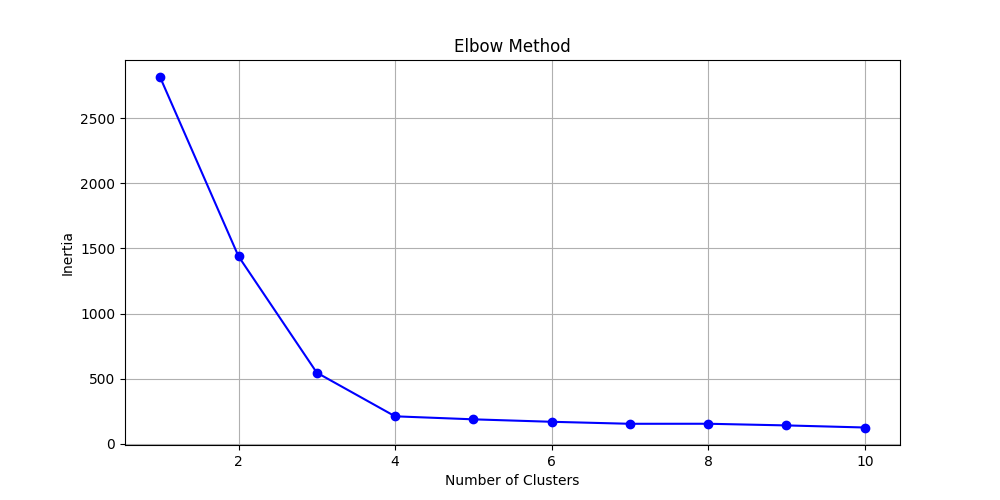
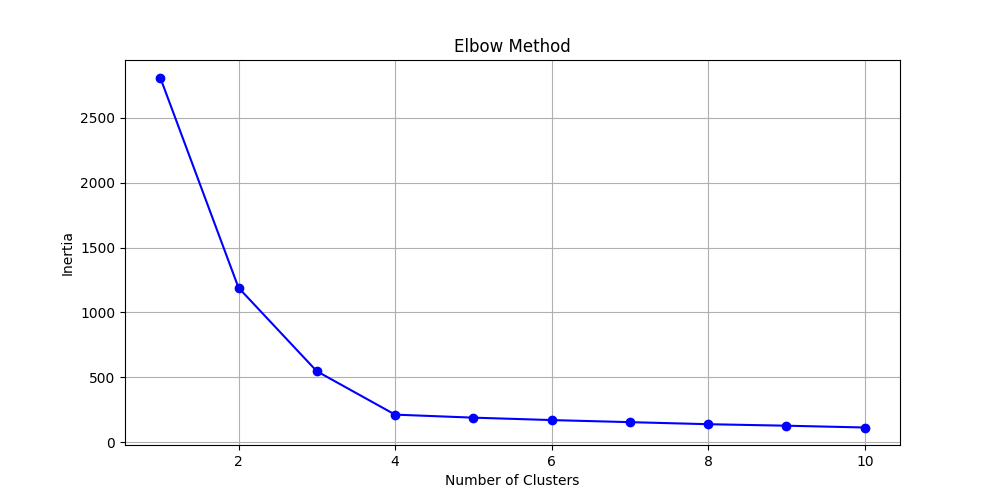
Add clustering prediction outputs

diff --git a/docs/5-ml-fundamentals/5.4-unsupervised-learning/generate_visualizations.py b/docs/5-ml-fundamentals/5.4-unsupervised-learning/generate_visualizations.py
@@ -197,7 +197,7 @@ def generate_clustering_visualizations():
     X, y = make_blobs(n_samples=300, centers=4, cluster_std=0.60, random_state=0)
 
     # K-Means
-    kmeans = KMeans(n_clusters=4, random_state=42)
+    kmeans = KMeans(n_clusters=4, n_init=10, random_state=42)
     kmeans.fit(X)
     y_kmeans = kmeans.predict(X)
 
@@ -296,7 +296,7 @@ def generate_clustering_visualizations():
     # Elbow method
     inertias = []
     for k in range(1, 11):
-        kmeans = KMeans(n_clusters=k, random_state=42)
+        kmeans = KMeans(n_clusters=k, n_init=10, random_state=42)
         kmeans.fit(X)
         inertias.append(kmeans.inertia_)
 

diff --git a/docs/5-ml-fundamentals/5.4-unsupervised-learning/clustering.md b/docs/5-ml-fundamentals/5.4-unsupervised-learning/clustering.md
@@ -55,7 +55,7 @@ from sklearn.datasets import make_blobs
 X, y = make_blobs(n_samples=300, centers=4, cluster_std=0.60, random_state=0)
 
 # Apply K-Means
-kmeans = KMeans(n_clusters=4, random_state=42)
+kmeans = KMeans(n_clusters=4, n_init=10, random_state=42)
 kmeans.fit(X)
 y_kmeans = kmeans.predict(X)
 
@@ -111,6 +111,18 @@ plt.close()
 <img src="assets/kmeans_example.png" alt="Side-by-side scatter plots of original synthetic groups and K-Means cluster assignments with centroid markers" />
 <figcaption>Figure 1: K-Means works well on compact, blob-shaped clusters and marks each learned centroid with a red X.</figcaption>
 </figure>
+
+Expected prediction output:
+
+```text
+First 10 labels: [0 2 1 2 0 0 3 1 2 2]
+Centroids:
+[[ 1.98  0.87]
+ [ 0.95  4.42]
+ [-1.37  7.75]
+ [-1.58  2.83]]
+Inertia: 212.01
+```
 
 ### 2. Hierarchical Clustering
 
@@ -189,6 +201,14 @@ plt.close()
 <figcaption>Figure 2: Hierarchical clustering produces both flat cluster labels and a dendrogram that shows how groups merge as distance increases.</figcaption>
 </figure>
 
+Expected prediction output:
+
+```text
+First 10 labels: [2 0 1 0 2 2 3 1 0 0]
+Cluster ids: [0 1 2 3]
+Cluster counts: [75 75 75 75]
+```
+
 ### 3. DBSCAN (Density-Based Spatial Clustering of Applications with Noise)
 
 Think of DBSCAN as a smart city planner who:
@@ -265,6 +285,14 @@ plt.close()
 <figcaption>Figure 3: DBSCAN follows dense regions, so it can separate curved clusters without being told the number of clusters.</figcaption>
 </figure>
 
+Expected prediction output:
+
+```text
+Cluster ids: [0 1]
+Cluster counts: [150 150]
+Noise fraction: 0.0
+```
+
 ## How to Choose the Right Algorithm
 
 ### Use K-Means when
@@ -311,7 +339,7 @@ def find_optimal_clusters(X, max_clusters=10):
     # Calculate inertia for different numbers of clusters
     inertias = []
     for k in range(1, max_clusters + 1):
-        kmeans = KMeans(n_clusters=k, random_state=42)
+        kmeans = KMeans(n_clusters=k, n_init=10, random_state=42)
         kmeans.fit(X)
         inertias.append(kmeans.inertia_)
 
@@ -353,6 +381,12 @@ def find_optimal_clusters(X, max_clusters=10):
 <img src="assets/elbow_method.png" alt="Elbow plot of K-Means inertia against number of clusters" />
 <figcaption>Figure 4: The elbow method looks for the point where adding another cluster stops reducing inertia substantially.</figcaption>
 </figure>
+
+Expected numeric output for `k=1..10`:
+
+```text
+[2812.1, 1190.8, 546.9, 212.0, 188.8, 170.1, 154.0, 138.2, 126.6, 112.8]
+```
 
 ## Common Mistakes to Avoid
 

diff --git a/docs/5-ml-fundamentals/5.4-unsupervised-learning/hierarchical-clustering.md b/docs/5-ml-fundamentals/5.4-unsupervised-learning/hierarchical-clustering.md
@@ -113,6 +113,30 @@ Read the dendrogram from bottom to top:
 
 If you cut the tree lower, you get more clusters. If you cut it higher, smaller groups merge into fewer broader clusters.
 
+## Reading the Fitted Labels
+
+`AgglomerativeClustering` returns one label per row when you call `fit_predict`.
+
+```python
+import numpy as np
+
+cluster_ids, cluster_counts = np.unique(predicted_labels, return_counts=True)
+
+print("Cluster labels:", predicted_labels[:10])
+print("Cluster ids:", cluster_ids)
+print("Cluster counts:", cluster_counts)
+```
+
+Expected output:
+
+```text
+Cluster labels: [2 0 1 0 2 2 3 1 0 0]
+Cluster ids: [0 1 2 3]
+Cluster counts: [75 75 75 75]
+```
+
+The label numbers are arbitrary, just like K-Means. The useful information is the grouping pattern and the cluster profiles, not whether a point is assigned to label `0` or label `2`.
+
 ## Reading a Dendrogram
 
 In a dendrogram:
@@ -165,6 +189,14 @@ for linkage_name in ["ward", "complete", "average"]:
     model = AgglomerativeClustering(n_clusters=4, linkage=linkage_name)
     labels = model.fit_predict(X)
     print(linkage_name, labels[:10])
+```
+
+Expected output:
+
+```text
+ward [2 0 1 0 2 2 3 1 0 0]
+complete [2 1 3 1 2 2 0 3 1 1]
+average [2 0 3 0 2 2 1 3 0 0]
 ```
 
 Then answer:

diff --git a/docs/5-ml-fundamentals/5.4-unsupervised-learning/dbscan.md b/docs/5-ml-fundamentals/5.4-unsupervised-learning/dbscan.md
@@ -104,11 +104,22 @@ When reading a DBSCAN plot:
 DBSCAN labels are still arbitrary integers, but `-1` has a special meaning:
 
 ```python
-cluster_ids = set(predicted_labels)
+import numpy as np
+
+cluster_ids, cluster_counts = np.unique(predicted_labels, return_counts=True)
 noise_fraction = (predicted_labels == -1).mean()
 
 print("Cluster ids:", cluster_ids)
+print("Cluster counts:", cluster_counts)
 print("Noise fraction:", round(noise_fraction, 3))
+```
+
+Expected output:
+
+```text
+Cluster ids: [0 1]
+Cluster counts: [150 150]
+Noise fraction: 0.0
 ```
 
 If almost everything is `-1`, `eps` is probably too small or `min_samples` is too high. If almost everything is one label, `eps` is probably too large.

diff --git a/docs/5-ml-fundamentals/5.4-unsupervised-learning/k-means-clustering.md b/docs/5-ml-fundamentals/5.4-unsupervised-learning/k-means-clustering.md
@@ -140,8 +140,20 @@ After fitting, the estimator stores useful attributes:
 ```python
 print("Cluster labels:", predicted_labels[:10])
 print("Centroids:")
-print(kmeans.cluster_centers_)
+print(kmeans.cluster_centers_.round(2))
 print("Inertia:", round(kmeans.inertia_, 2))
+```
+
+Expected output:
+
+```text
+Cluster labels: [0 2 1 2 0 0 3 1 2 2]
+Centroids:
+[[ 1.98  0.87]
+ [ 0.95  4.42]
+ [-1.37  7.75]
+ [-1.58  2.83]]
+Inertia: 212.01
 ```
 
 - `labels_` or `fit_predict(X)` gives one cluster id per row.
